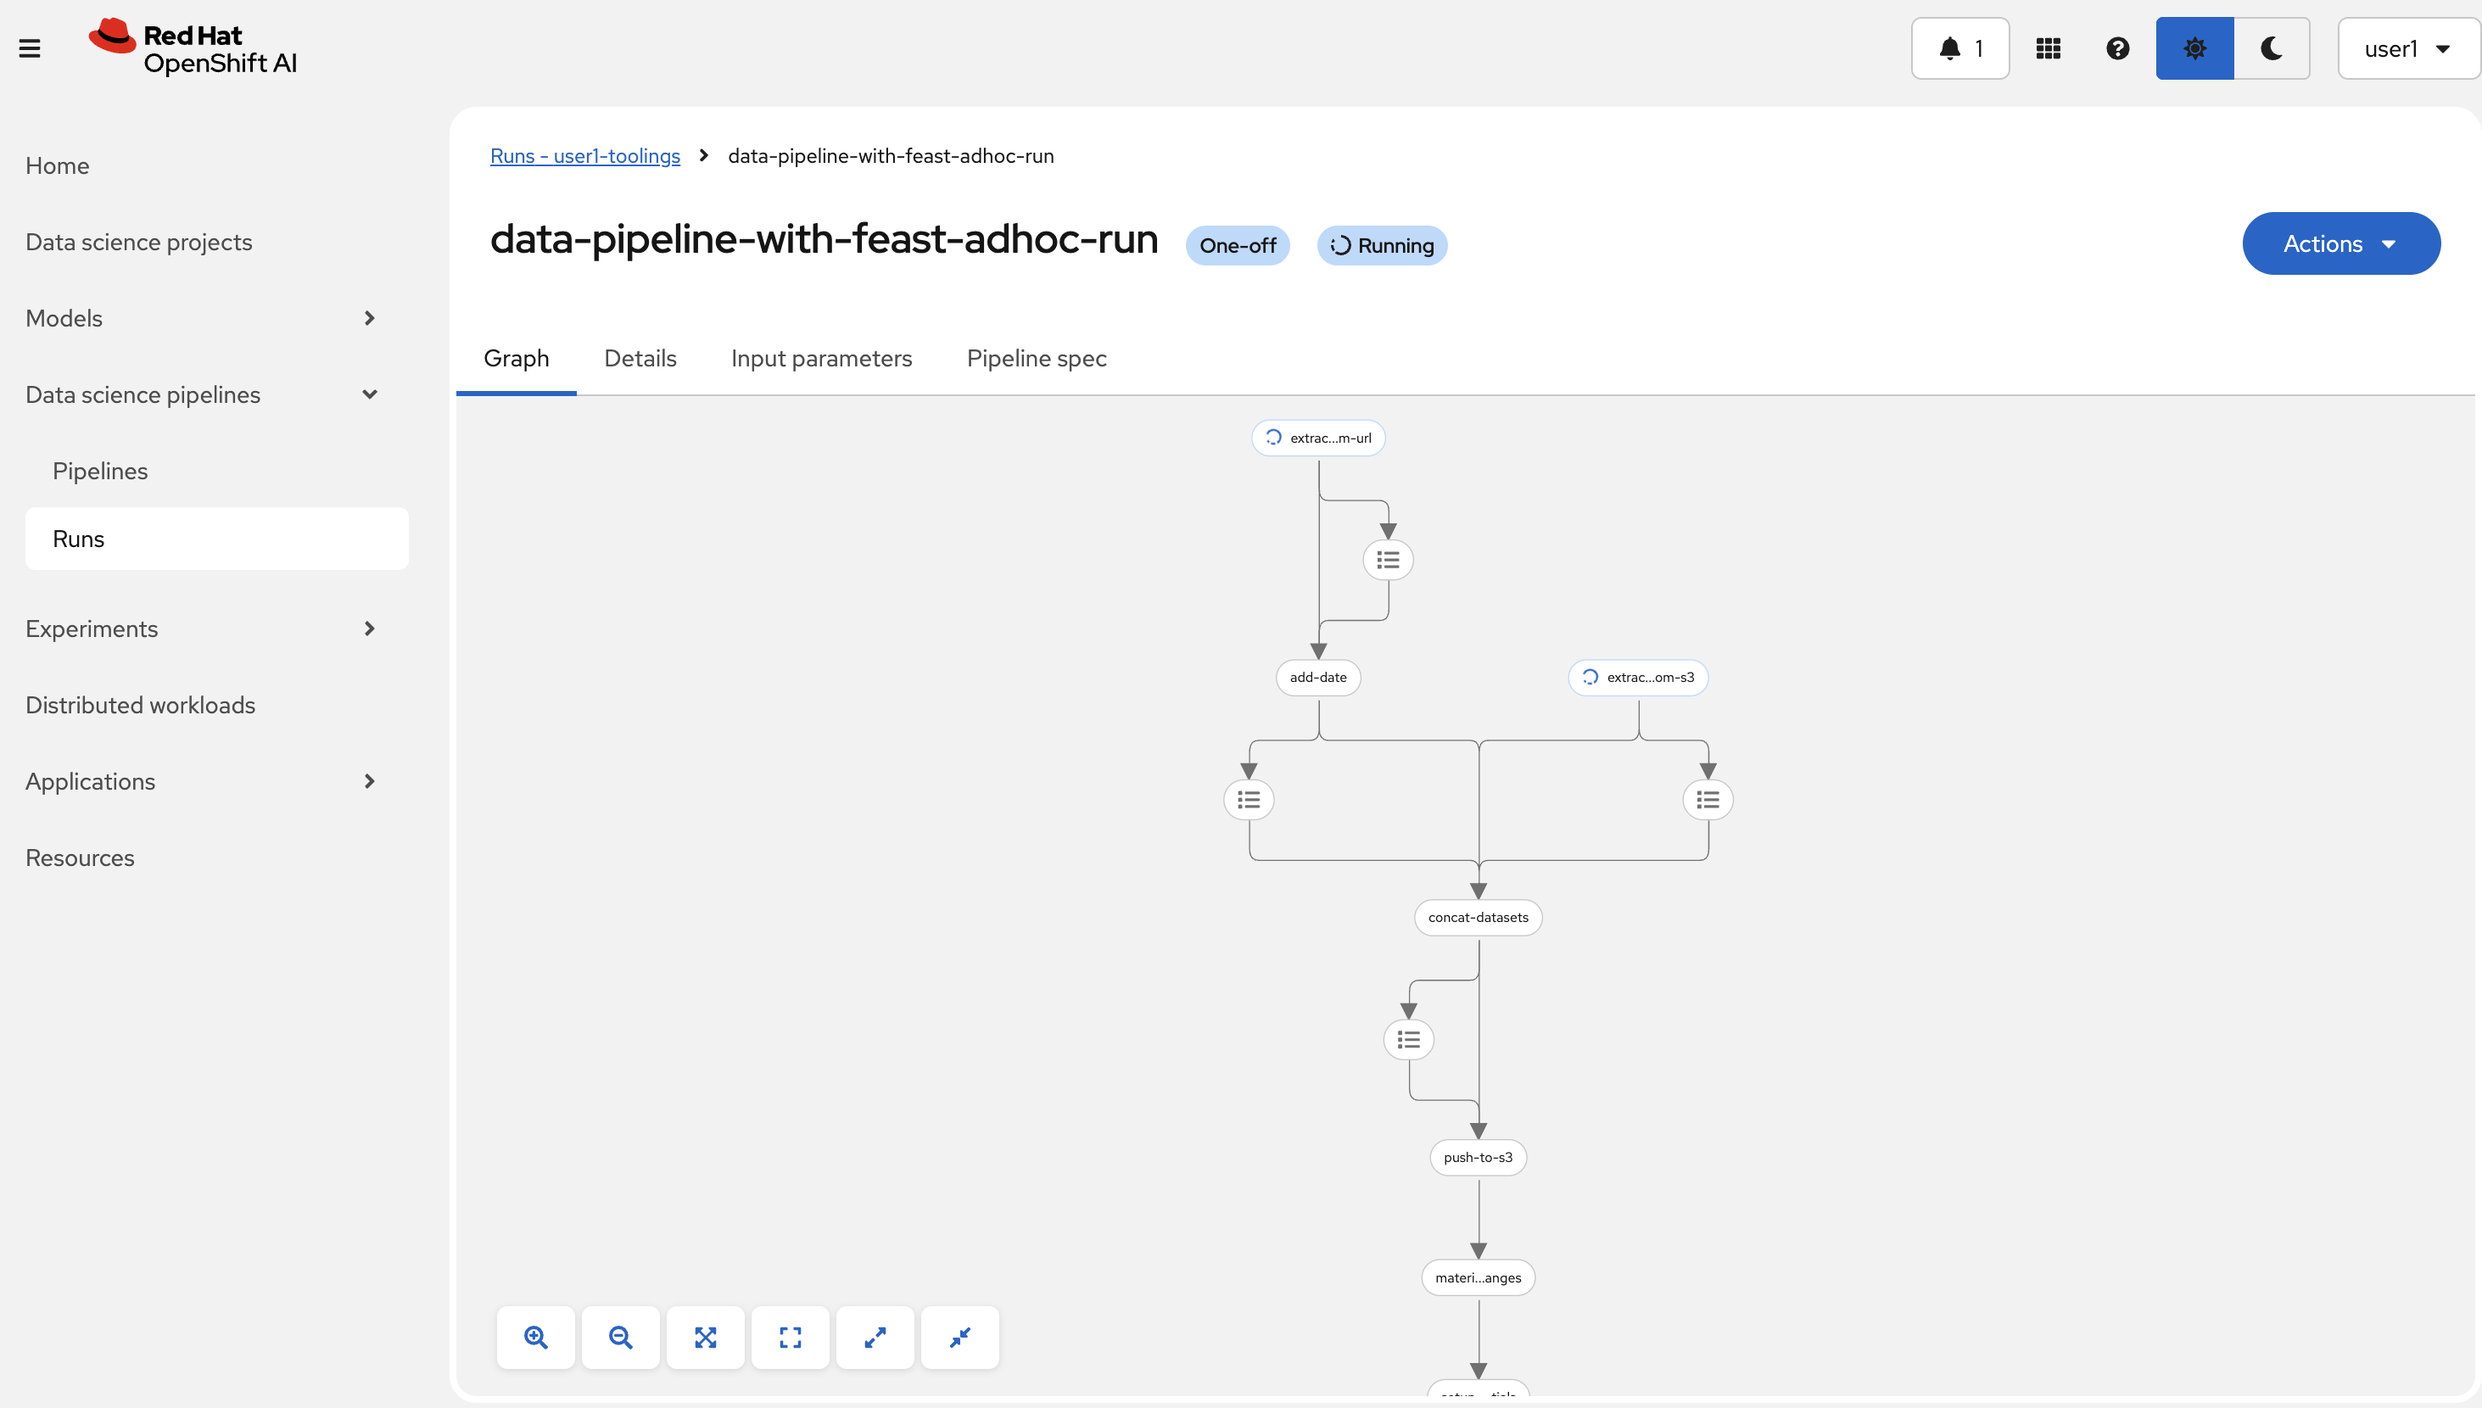
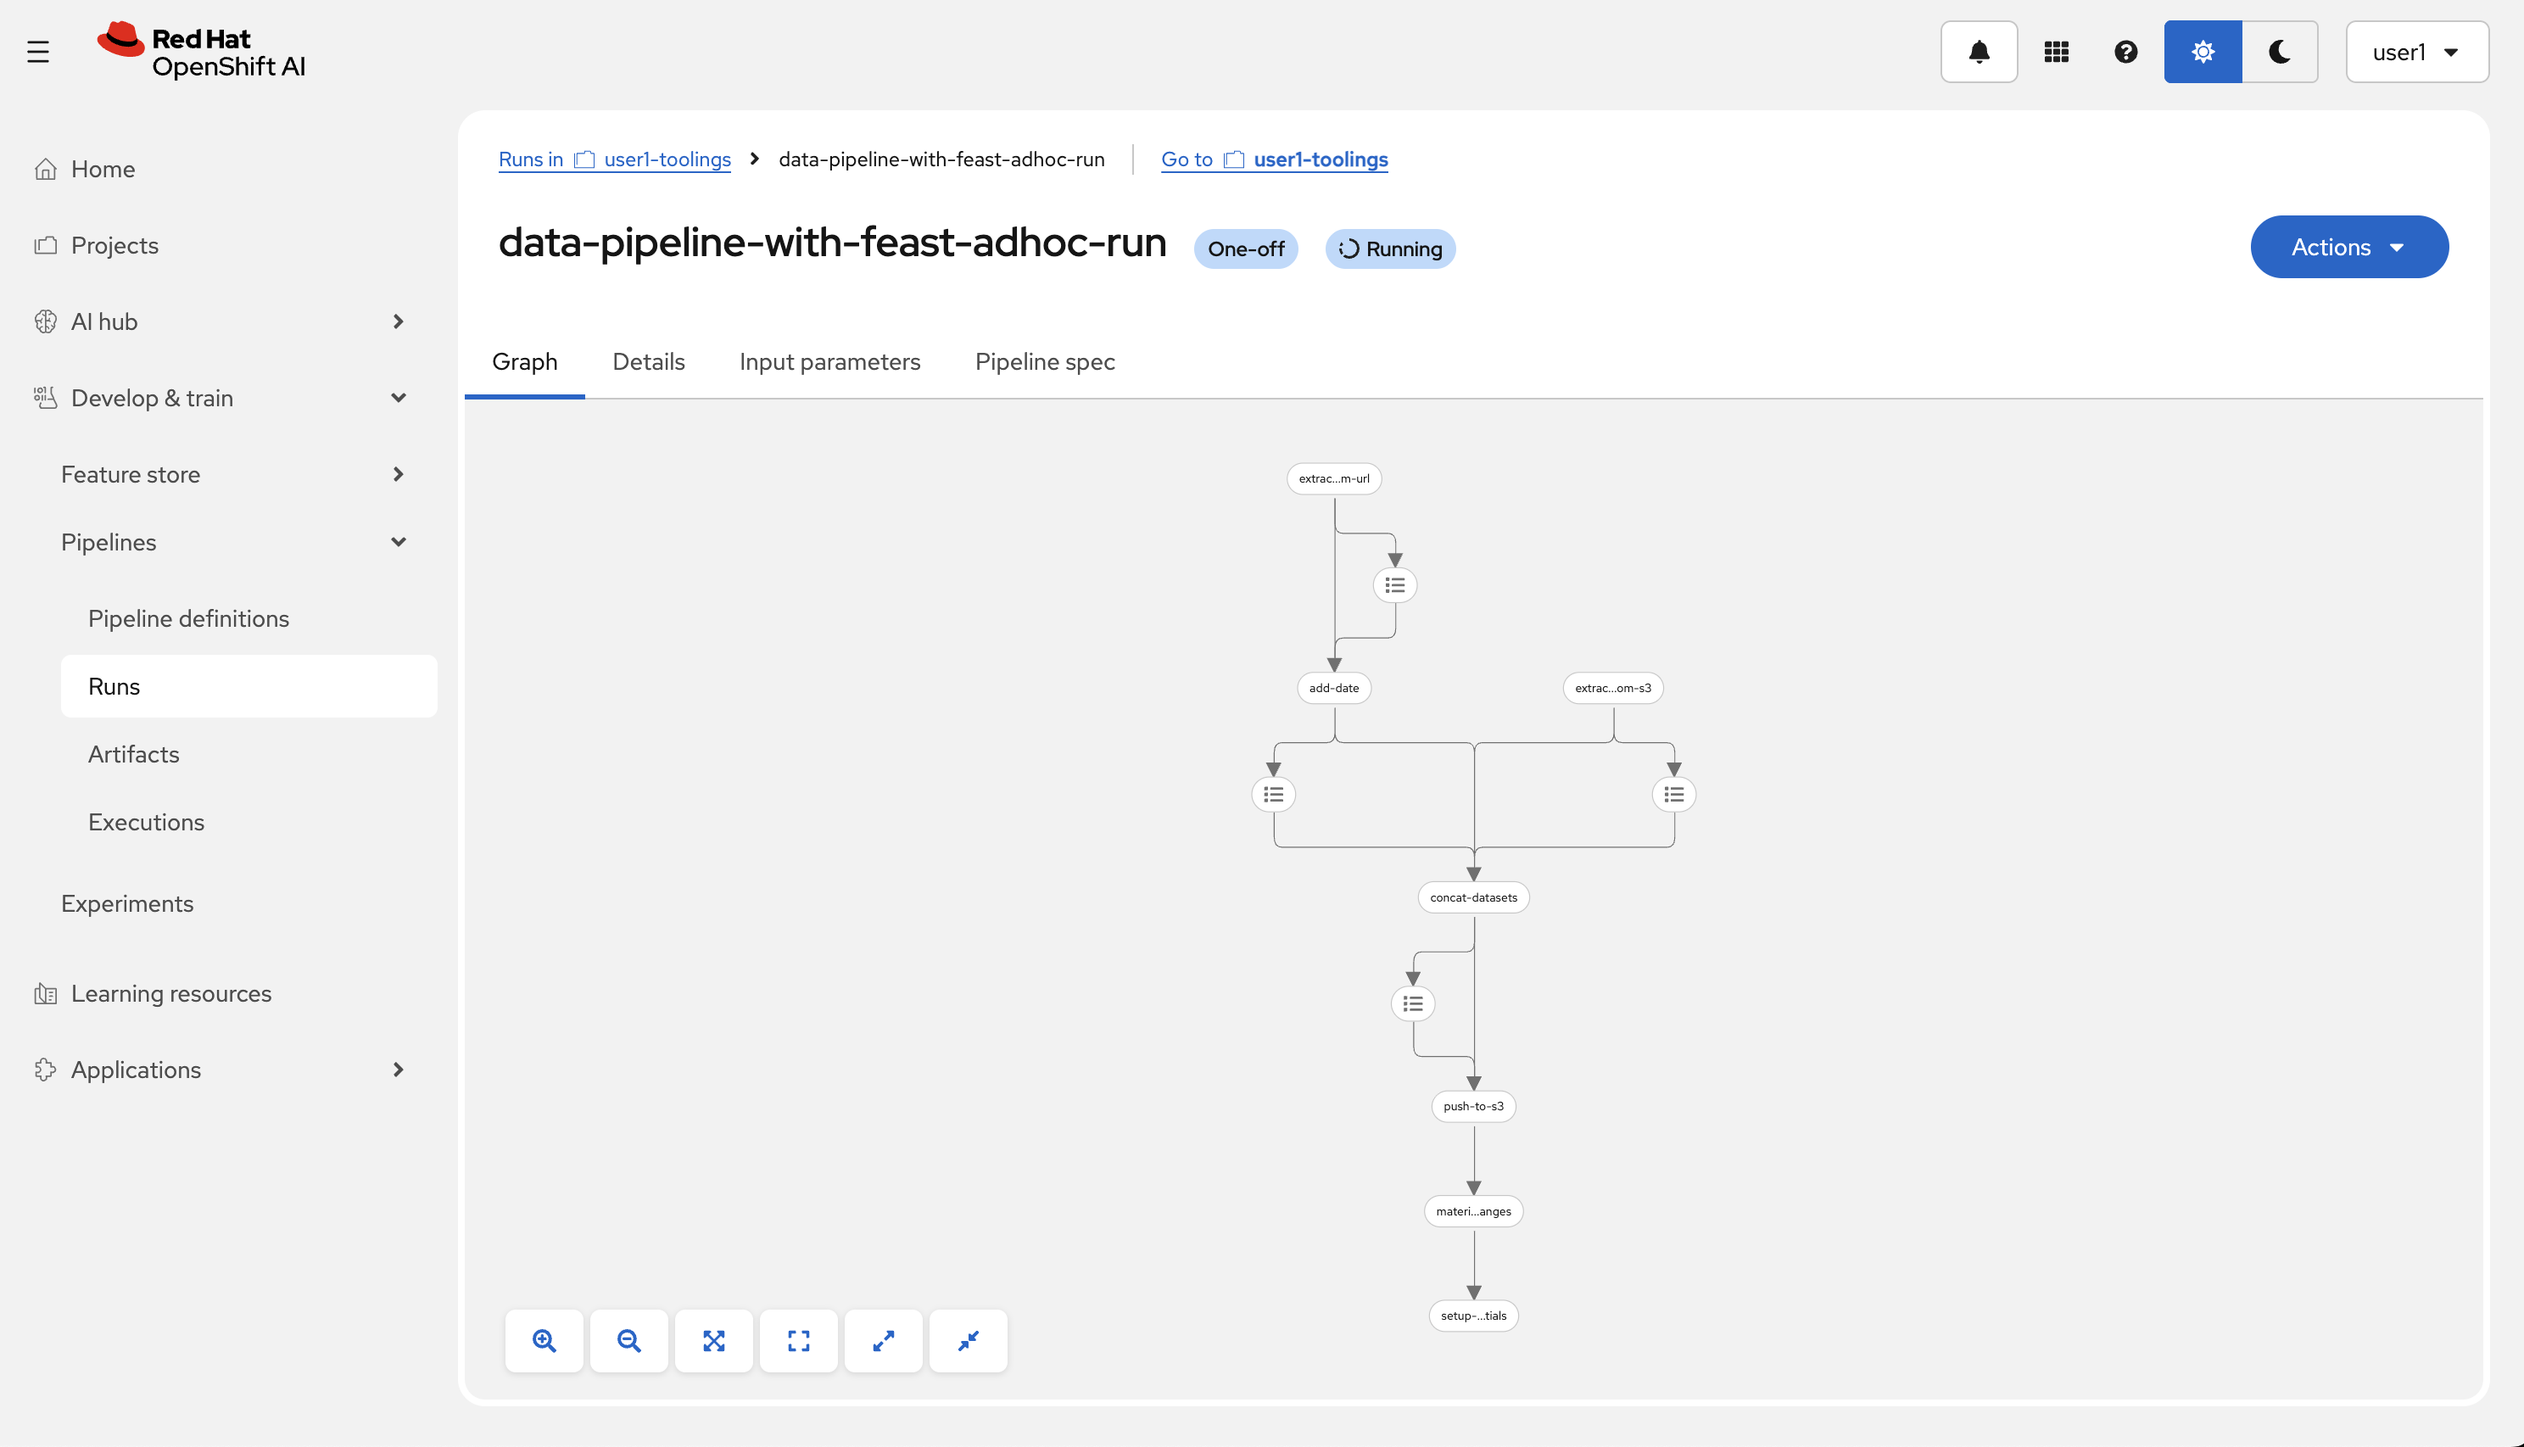
🎶seventh chapter updates🎶

diff --git a/docs/7-the-feature-playlist/4-more-pipelines.md b/docs/7-the-feature-playlist/4-more-pipelines.md
@@ -24,12 +24,16 @@ With only the most recent data is materialized, we'll reduce unnecessary data lo
 
 3. This will create a new file called `song-properties-etl.yaml`, download this file 🗃
    
-4. In `OpenShift AI` dashboard, go to `Data science pipelines` > `Pipelines` and navigate to your `<USER_NAME>-toolings` project. Then click on your `data-pipeline-with-dvc` pipeline -> `Actions` -> `Upload new version`.  
+4. In `OpenShift AI` dashboard, go to `Develop & train` > `Pipelines` > `Pipeline definitions` and navigate to your `<USER_NAME>-toolings` project. Then click on your `data-pipeline-with-dvc` pipeline -> `Actions` -> `Upload new version`.  
 Then upload the `song-properties-etl.yaml` you just downloaded.
    
     ![import-new-version.png](./images/import-new-version.png)
 
-5. Since we don't want to wait for the scheduled run, let's kick off a pipeline run immediately (Actions -> Create Run), use these settings:
+5. Since we don't want to wait for the scheduled run, let's kick off a pipeline run immediately (Actions -> Create Run)
+
+    ![run-etl-pipeline-create-run.png](./images/run-etl-pipeline-create-run.png)
+    
+    use these settings:
 
     - Name: `data-pipeline-with-feast-adhoc-run`
     - repo_url:

diff --git a/docs/7-the-feature-playlist/2-outer-loop-features.md b/docs/7-the-feature-playlist/2-outer-loop-features.md
@@ -59,6 +59,11 @@ To set this up:
     ```python
         ### 🛍 Fetch Data from Feast
         fetch_task = fetch_data_from_feast(version=version)
+        kubernetes.use_field_path_as_env(
+           fetch_task,
+           env_name='namespace',
+           field_path='metadata.namespace'
+        )
         kubernetes.use_secret_as_env(
             fetch_task,
             secret_name='aws-connection-data',
